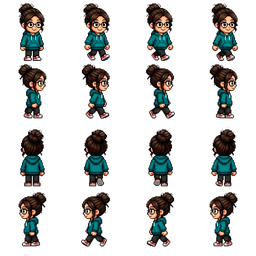
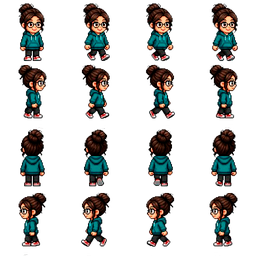
atualizando fase3

diff --git a/jogo/Data/fase3.js b/jogo/Data/fase3.js
@@ -1946,6 +1946,126 @@ const Fase3 = {
       "width": 64,
       "height": 64,
       "img": ""
+    },
+    {
+      "id": "parede_576_512",
+      "x": 628,
+      "y": 512,
+      "width": 48,
+      "height": 4,
+      "img": ""
+    },
+    {
+      "id": "parede_640_512",
+      "x": 690,
+      "y": 502,
+      "width": 64,
+      "height": 16,
+      "img": ""
+    },
+    {
+      "id": "parede_704_512",
+      "x": 704,
+      "y": 502,
+      "width": 64,
+      "height": 16,
+      "img": ""
+    },
+    {
+      "id": "parede_768_512",
+      "x": 730,
+      "y": 502,
+      "width": 64,
+      "height": 16,
+      "img": ""
+    },
+    {
+      "id": "parede_768_448",
+      "x": 730,
+      "y": 438,
+      "width": 64,
+      "height": 64,
+      "img": ""
+    },
+    {
+      "id": "parede_704_448",
+      "x": 704,
+      "y": 438,
+      "width": 64,
+      "height": 64,
+      "img": ""
+    },
+    {
+      "id": "parede_640_448",
+      "x": 680,
+      "y": 448,
+      "width": 64,
+      "height": 64,
+      "img": ""
+    },
+    {
+      "id": "parede_1280_512",
+      "x": 1248,
+      "y": 512,
+      "width": 48,
+      "height": 4,
+      "img": ""
+    },
+    {
+      "id": "parede_1216_512",
+      "x": 1160,
+      "y": 502,
+      "width": 64,
+      "height": 16,
+      "img": ""
+    },
+    {
+      "id": "parede_1152_512",
+      "x": 1152,
+      "y": 502,
+      "width": 64,
+      "height": 16,
+      "img": ""
+    },
+    {
+      "id": "parede_1088_512",
+      "x": 1128,
+      "y": 502,
+      "width": 64,
+      "height": 16,
+      "img": ""
+    },
+    {
+      "id": "parede_1216_448",
+      "x": 1192,
+      "y": 448,
+      "width": 64,
+      "height": 64,
+      "img": ""
+    },
+    {
+      "id": "parede_1216_384",
+      "x": 1192,
+      "y": 380,
+      "width": 64,
+      "height": 64,
+      "img": ""
+    },
+    {
+      "id": "parede_1152_448",
+      "x": 1106,
+      "y": 400,
+      "width": 64,
+      "height": 64,
+      "img": ""
+    },
+    {
+      "id": "parede_1152_384",
+      "x": 1106,
+      "y": 380,
+      "width": 64,
+      "height": 64,
+      "img": ""
     }
   ],
   "interacoes": [

diff --git a/jogo/Data/faseRegistry.js b/jogo/Data/faseRegistry.js
@@ -6,7 +6,6 @@ import Fase3 from "./fase3.js";
 // AUTO_IMPORTS_START
 // (não remova) - imports gerados automaticamente pelo Editor de Fases
 import Fase01 from "./fase_01.js";
-import Fase02 from "./fase_02.js";
 import FaseInicio from "./fase_inicio.js";
 // AUTO_IMPORTS_END
 
@@ -54,14 +53,6 @@ const FASES_PADRAO = {
     background: "../Imagem/editor_uploads/fase_01/1786371159926_fase1.png",
     htmlPath: "fase_01.html",
     data: Fase01,
-    origem: "padrao",
-  },
-  fase_02: {
-    id: "fase_02",
-    nome: "Biblioteca",
-    background: "../Imagem/editor_uploads/fase_02/1786449093193_biblioteca.png",
-    htmlPath: "fase_02.html",
-    data: Fase02,
     origem: "padrao",
   },
   fase_inicio: {
